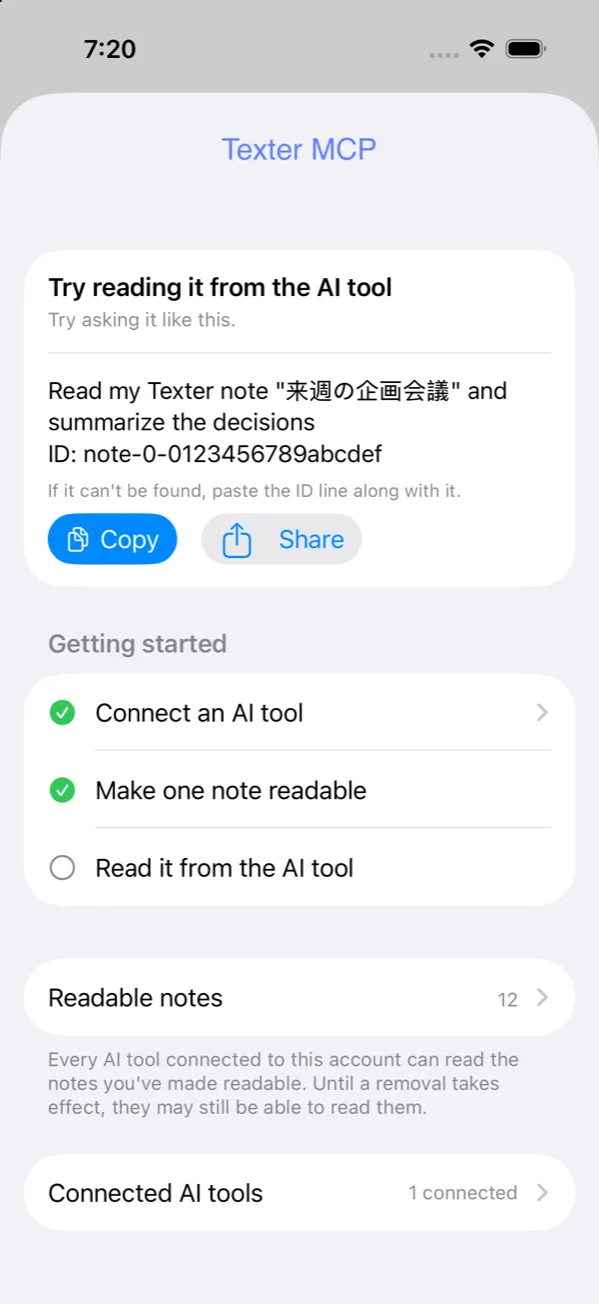
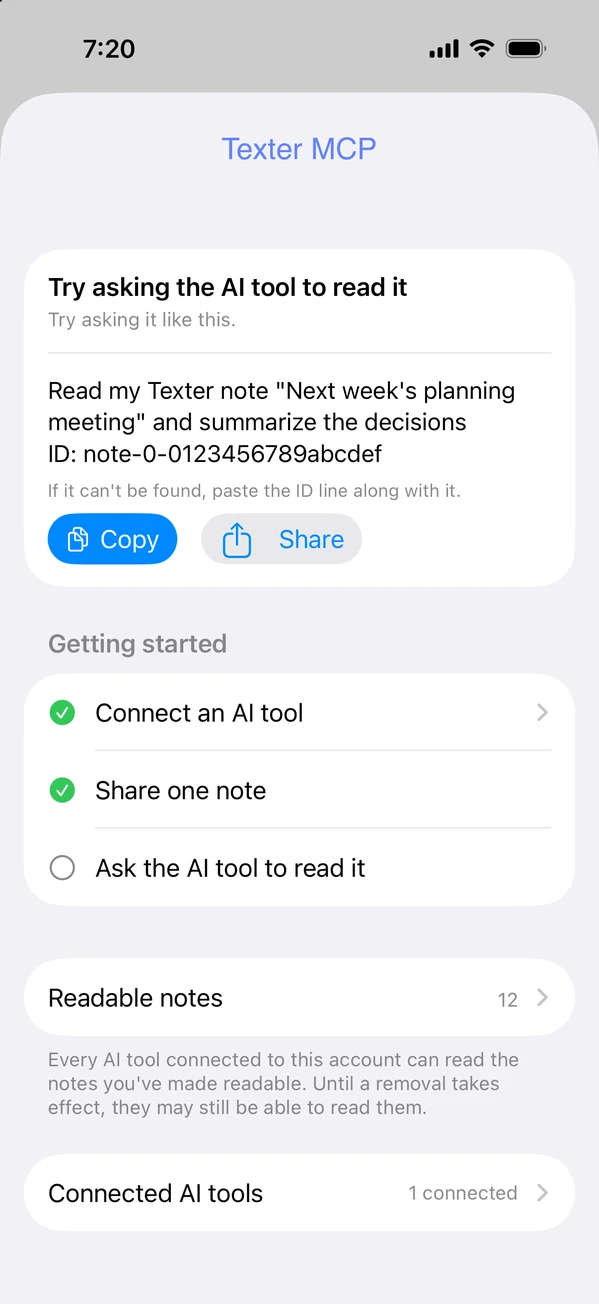
docs(guides): 英語版の画像と画面の文言をアプリの今の文言に合わせる
- 英語版の画像3点を差し替える
- 英語版が引用するアプリの画面の文言を、今の文言に直す
- ChatGPT の英語のボタン名と、確かめた内容を脚注に反映する

diff --git a/scripts/guides/data.js b/scripts/guides/data.js
@@ -1594,7 +1594,7 @@ codex mcp login texter</pre>
 <article><h3>長く使った接続は、そのまま使えますか。</h3><p>AIツールから、接続し直しを求められることがあります。そのときは、同じ手順で接続し直してください。</p></article>
 <article><h3>iPhoneがオフラインのときは読めますか。</h3><p>iPhoneがオフラインの間は、最後に同期した内容が読まれます。</p></article>
 <article><h3>パソコンのツールは端末ごとに表示されますか。</h3><p>パソコンのツールは、端末ごとではなく1件にまとまって表示されます。</p></article>
-<p class="note">検証日 2026-11-26。ChatGPTのカスタムMCPサーバーの手順とMuseの手順は、2026年11月12日に実際の画面で操作したものです。ChatGPTのプラグインの一覧からの追加は、公開されたページの表記を確かめたもので、インストールから接続までは通して確かめていません。画面や手順は、各ツールの更新で変わることがあります。Claude、ChatGPT、Codex、Museは各社の商標です。</p>` },
+<p class="note">検証日 2026-11-26。ChatGPTのプラグインの一覧からの追加は、2026年11月26日に、英語の画面でインストールし、Texterの許可の画面でサインインして許可しました。そのうえで、ChatGPTからノートの一覧・検索・読み取りが動くことを確かめています。日本語の画面のボタン名は、公開されたページの表記によります。ChatGPTのカスタムMCPサーバーの手順とMuseの手順は、2026年11月12日に実際の画面で操作しました。画面や手順は、各ツールの更新で変わることがあります。Claude、ChatGPT、Codex、Museは各社の商標です。</p>` },
   ],
   ctaTitle: 'Texterで試す',
   ctaLabel: 'Texterを入手する',
@@ -1640,7 +1640,7 @@ codex mcp login texter</pre>
 <li>In Texter, sign in with Apple or Google and sync your notes</li>
 </ul>
 <p>In Texter, open "Settings &gt; Account &gt; Texter MCP". The three steps are listed under "Getting started", and this page follows the same order.</p>
-<figure class="shot"><a href="/assets/guides/ai-tools-mcp/03_ready_en.webp"><img src="/assets/guides/ai-tools-mcp/03_ready_en.webp" alt="The Texter MCP screen. It shows an example prompt under &quot;Try reading it from the AI tool&quot;, with the note ID line and Copy and Share buttons" width="599" height="1304" loading="lazy" decoding="async"></a><figcaption>The Texter MCP screen (after steps 1 and 2)</figcaption></figure>
+<figure class="shot"><a href="/assets/guides/ai-tools-mcp/03_ready_en.webp"><img src="/assets/guides/ai-tools-mcp/03_ready_en.webp" alt="The Texter MCP screen. It shows an example prompt under &quot;Try asking the AI tool to read it&quot;, with the note ID line and Copy and Share buttons" width="599" height="1304" loading="lazy" decoding="async"></a><figcaption>The Texter MCP screen (after steps 1 and 2)</figcaption></figure>
 <p>If you don't see "Texter MCP" in the app, update the app, wait a while, and open it again.</p>` },
     { id: 'step1', title: 'Step 1: Connect your AI tool', html: `
 <p>For every tool, the connection URL is the same.</p>
@@ -1663,10 +1663,10 @@ codex mcp login texter</pre>
 codex mcp login texter</pre>
 <p>The Texter allow screen opens in your browser; sign in and allow access.</p>
 <h3 id="tool-chatgpt">ChatGPT</h3>
-<p>Texter is listed in ChatGPT's plugin directory, so you can add it without typing the URL. The labels below are from the Japanese interface and may read differently in yours.</p>
-<ol><li>In ChatGPT's plugin directory, find "Texter" and open it</li><li>Choose the install button at the top right (shown as "プラグインをインストール" in the Japanese interface)</li><li>When the Texter screen opens, sign in and allow access</li></ol>
+<p>Texter is listed in ChatGPT's plugin directory, so you can add it without typing the URL.</p>
+<ol><li>In ChatGPT's plugin directory, find "Texter" and open it</li><li>Choose "Install plugin" at the top right (shown as "プラグインをインストール" in the Japanese interface)</li><li>When the Texter screen opens, sign in and allow access</li></ol>
 <p>You can also open <a href="https://chatgpt.com/plugins/plugin_asdk_app_6af6ad7b741c81919c457dd81e6c3ea0" rel="noopener">the Texter page on ChatGPT</a> directly.</p>
-<p>If you can't add it from the directory, add it as a custom MCP server instead, using the server URL at the top of Step 1 (https://mcp.texter.work/mcp).</p>
+<p>If you can't add it from the directory, add it as a custom MCP server instead, using the server URL at the top of Step 1 (https://mcp.texter.work/mcp). The labels in these steps are from the Japanese interface and may read differently in yours.</p>
 <ol><li>Open the plugins screen. From "Add" at the top right, choose to add a custom MCP server</li><li>Enter a name such as "Texter"</li><li>Set the connection type to server URL and enter the URL above</li><li>Choose OAuth for authentication</li><li>Read the risk notice, check the box confirming you understand, and create it</li><li>When the Texter screen opens, sign in and allow access</li></ol>
 <p>Depending on your plan or your administrator's settings, the plugin directory or this option may not appear. If it doesn't, check ChatGPT's help.</p>
 
@@ -1682,8 +1682,8 @@ codex mcp login texter</pre>
     { id: 'step2', title: 'Step 2: Choose the notes to make readable', html: `
 <p>Connecting alone does not let the tool read anything. An AI tool can read only the notes you have made readable in Texter. Start with one.</p>
 <ol class="steps"><li><h3>Make a note readable</h3>
-<p>Open a note in Texter and choose "Make Readable with Texter MCP" from its menu. You can also choose notes from "Settings &gt; Account &gt; Texter MCP".</p>
-<p>A confirmation screen explains the following. After reading it, tap "Agree and Make Readable".</p>
+<p>Open a note in Texter and choose "Share with Texter MCP" from its menu. You can also choose notes from "Settings &gt; Account &gt; Texter MCP".</p>
+<p>A confirmation screen explains the following. After reading it, tap "Agree and Share".</p>
 <ul><li>The text of this note is sent to the cloud</li><li>Recordings and other original files are not sent</li><li>Content already given to tools can't be taken back</li></ul>
 <p>How to select several notes at once is covered in the next section, "You choose what can be read".</p>
 <p>When the status reads "Readable by connected tools", you're ready. If it says "Preparing", wait a moment.</p>
@@ -1697,7 +1697,7 @@ codex mcp login texter</pre>
 <li>Read my Texter note "note title" and summarize the decisions</li>
 </ul>
 <p>Search looks for notes that contain the words you use, so short words work best. Even if you ask in a full sentence, most AI tools break it into words. A word that is not in your notes returns no results. When we searched for "meeting" while no readable note contained that word, we got none. A different wording can find the note, so try other words.</p>
-<p>If it can't find the note, also paste the ID line from the example prompt under "Try reading it from the AI tool" on the Texter MCP screen. The example is at the top of the image in <a href="#before">Before you start</a>.</p>` },
+<p>If it can't find the note, also paste the ID line from the example prompt under "Try asking the AI tool to read it" on the Texter MCP screen. The example is at the top of the image in <a href="#before">Before you start</a>.</p>` },
     { id: 'control', title: 'You choose what can be read', html: `
 <ul>
 <li>You can make notes readable one at a time</li>
@@ -1722,7 +1722,7 @@ codex mcp login texter</pre>
 <li>Under "Connected AI tools", tap "Disconnect" next to the tool</li>
 <li>Confirm. Disconnecting cuts the connection on every device</li>
 </ol>
-<p>If the connection also remains on the AI tool's side, remove it in that tool's settings. To stop a single note from being read, choose "Make Unreadable with Texter MCP" from the note's menu.</p>
+<p>If the connection also remains on the AI tool's side, remove it in that tool's settings. To stop a single note from being read, choose "Stop Sharing with Texter MCP" from the note's menu.</p>
 <p>A disconnected tool can no longer read your notes from that moment. If you make individual notes unreadable instead, they may still be readable until the change takes effect.</p>
 <figure class="shot"><a href="/assets/guides/ai-tools-mcp/11_grants_list_en.webp"><img src="/assets/guides/ai-tools-mcp/11_grants_list_en.webp" alt="The Connected AI tools screen listing the tools you connected" width="599" height="1304" loading="lazy" decoding="async"></a><figcaption>The "Connected AI tools" list</figcaption></figure>` },
     { id: 'trouble', title: 'Troubleshooting', html: `
@@ -1740,7 +1740,7 @@ codex mcp login texter</pre>
 <article><h3>Can I keep using a connection I have used for a long time?</h3><p>Your AI tool may ask you to reconnect. If it does, connect again with the same steps.</p></article>
 <article><h3>What if my iPhone is offline?</h3><p>While your iPhone is offline, the last synced content is read.</p></article>
 <article><h3>Are tools on my computer listed per device?</h3><p>No. Tools on your computer appear as one entry, not one per device.</p></article>
-<p class="note">Last verified 2026-11-26. The steps for adding a custom MCP server in ChatGPT and the Muse steps are from a session we ran on the real screens on November 12, 2026. For adding Texter from ChatGPT's plugin directory, we checked the labels on the published page, but we have not gone through the whole flow from install to connection. Screens and steps can change as each tool updates. Claude, ChatGPT, Codex, and Muse are trademarks of their respective owners.</p>` },
+<p class="note">Last verified 2026-11-26. For adding Texter from ChatGPT's plugin directory, on November 26, 2026 we installed it in the English interface, signed in and allowed access on the Texter screen, and confirmed that ChatGPT could list, search, and read notes. The Japanese button name is from the published page. The steps for adding a custom MCP server in ChatGPT and the Muse steps are from a session we ran on the real screens on November 12, 2026. Screens and steps can change as each tool updates. Claude, ChatGPT, Codex, and Muse are trademarks of their respective owners.</p>` },
     ],
     ctaTitle: 'Try it in Texter',
     ctaLabel: 'Get Texter',

diff --git a/dist/en/guides/ai-tools-mcp/index.html b/dist/en/guides/ai-tools-mcp/index.html
@@ -216,7 +216,7 @@ footer p{margin:12px 0 0}
 <li>In Texter, sign in with Apple or Google and sync your notes</li>
 </ul>
 <p>In Texter, open "Settings &gt; Account &gt; Texter MCP". The three steps are listed under "Getting started", and this page follows the same order.</p>
-<figure class="shot"><a href="/assets/guides/ai-tools-mcp/03_ready_en.webp"><img src="/assets/guides/ai-tools-mcp/03_ready_en.webp" alt="The Texter MCP screen. It shows an example prompt under &quot;Try reading it from the AI tool&quot;, with the note ID line and Copy and Share buttons" width="599" height="1304" loading="lazy" decoding="async"></a><figcaption>The Texter MCP screen (after steps 1 and 2)</figcaption></figure>
+<figure class="shot"><a href="/assets/guides/ai-tools-mcp/03_ready_en.webp"><img src="/assets/guides/ai-tools-mcp/03_ready_en.webp" alt="The Texter MCP screen. It shows an example prompt under &quot;Try asking the AI tool to read it&quot;, with the note ID line and Copy and Share buttons" width="599" height="1304" loading="lazy" decoding="async"></a><figcaption>The Texter MCP screen (after steps 1 and 2)</figcaption></figure>
 <p>If you don't see "Texter MCP" in the app, update the app, wait a while, and open it again.</p></section>
 <section class="sec" id="step1" aria-labelledby="step1-h"><h2 id="step1-h">Step 1: Connect your AI tool</h2>
 <p>For every tool, the connection URL is the same.</p>
@@ -239,10 +239,10 @@ footer p{margin:12px 0 0}
 codex mcp login texter</pre>
 <p>The Texter allow screen opens in your browser; sign in and allow access.</p>
 <h3 id="tool-chatgpt">ChatGPT</h3>
-<p>Texter is listed in ChatGPT's plugin directory, so you can add it without typing the URL. The labels below are from the Japanese interface and may read differently in yours.</p>
-<ol><li>In ChatGPT's plugin directory, find "Texter" and open it</li><li>Choose the install button at the top right (shown as "プラグインをインストール" in the Japanese interface)</li><li>When the Texter screen opens, sign in and allow access</li></ol>
+<p>Texter is listed in ChatGPT's plugin directory, so you can add it without typing the URL.</p>
+<ol><li>In ChatGPT's plugin directory, find "Texter" and open it</li><li>Choose "Install plugin" at the top right (shown as "プラグインをインストール" in the Japanese interface)</li><li>When the Texter screen opens, sign in and allow access</li></ol>
 <p>You can also open <a href="https://chatgpt.com/plugins/plugin_asdk_app_6af6ad7b741c81919c457dd81e6c3ea0" rel="noopener">the Texter page on ChatGPT</a> directly.</p>
-<p>If you can't add it from the directory, add it as a custom MCP server instead, using the server URL at the top of Step 1 (https://mcp.texter.work/mcp).</p>
+<p>If you can't add it from the directory, add it as a custom MCP server instead, using the server URL at the top of Step 1 (https://mcp.texter.work/mcp). The labels in these steps are from the Japanese interface and may read differently in yours.</p>
 <ol><li>Open the plugins screen. From "Add" at the top right, choose to add a custom MCP server</li><li>Enter a name such as "Texter"</li><li>Set the connection type to server URL and enter the URL above</li><li>Choose OAuth for authentication</li><li>Read the risk notice, check the box confirming you understand, and create it</li><li>When the Texter screen opens, sign in and allow access</li></ol>
 <p>Depending on your plan or your administrator's settings, the plugin directory or this option may not appear. If it doesn't, check ChatGPT's help.</p>
 
@@ -258,8 +258,8 @@ codex mcp login texter</pre>
 <section class="sec" id="step2" aria-labelledby="step2-h"><h2 id="step2-h">Step 2: Choose the notes to make readable</h2>
 <p>Connecting alone does not let the tool read anything. An AI tool can read only the notes you have made readable in Texter. Start with one.</p>
 <ol class="steps"><li><h3>Make a note readable</h3>
-<p>Open a note in Texter and choose "Make Readable with Texter MCP" from its menu. You can also choose notes from "Settings &gt; Account &gt; Texter MCP".</p>
-<p>A confirmation screen explains the following. After reading it, tap "Agree and Make Readable".</p>
+<p>Open a note in Texter and choose "Share with Texter MCP" from its menu. You can also choose notes from "Settings &gt; Account &gt; Texter MCP".</p>
+<p>A confirmation screen explains the following. After reading it, tap "Agree and Share".</p>
 <ul><li>The text of this note is sent to the cloud</li><li>Recordings and other original files are not sent</li><li>Content already given to tools can't be taken back</li></ul>
 <p>How to select several notes at once is covered in the next section, "You choose what can be read".</p>
 <p>When the status reads "Readable by connected tools", you're ready. If it says "Preparing", wait a moment.</p>
@@ -273,7 +273,7 @@ codex mcp login texter</pre>
 <li>Read my Texter note "note title" and summarize the decisions</li>
 </ul>
 <p>Search looks for notes that contain the words you use, so short words work best. Even if you ask in a full sentence, most AI tools break it into words. A word that is not in your notes returns no results. When we searched for "meeting" while no readable note contained that word, we got none. A different wording can find the note, so try other words.</p>
-<p>If it can't find the note, also paste the ID line from the example prompt under "Try reading it from the AI tool" on the Texter MCP screen. The example is at the top of the image in <a href="#before">Before you start</a>.</p></section>
+<p>If it can't find the note, also paste the ID line from the example prompt under "Try asking the AI tool to read it" on the Texter MCP screen. The example is at the top of the image in <a href="#before">Before you start</a>.</p></section>
 <section class="sec" id="control" aria-labelledby="control-h"><h2 id="control-h">You choose what can be read</h2>
 <ul>
 <li>You can make notes readable one at a time</li>
@@ -298,7 +298,7 @@ codex mcp login texter</pre>
 <li>Under "Connected AI tools", tap "Disconnect" next to the tool</li>
 <li>Confirm. Disconnecting cuts the connection on every device</li>
 </ol>
-<p>If the connection also remains on the AI tool's side, remove it in that tool's settings. To stop a single note from being read, choose "Make Unreadable with Texter MCP" from the note's menu.</p>
+<p>If the connection also remains on the AI tool's side, remove it in that tool's settings. To stop a single note from being read, choose "Stop Sharing with Texter MCP" from the note's menu.</p>
 <p>A disconnected tool can no longer read your notes from that moment. If you make individual notes unreadable instead, they may still be readable until the change takes effect.</p>
 <figure class="shot"><a href="/assets/guides/ai-tools-mcp/11_grants_list_en.webp"><img src="/assets/guides/ai-tools-mcp/11_grants_list_en.webp" alt="The Connected AI tools screen listing the tools you connected" width="599" height="1304" loading="lazy" decoding="async"></a><figcaption>The "Connected AI tools" list</figcaption></figure></section>
 <section class="sec" id="trouble" aria-labelledby="trouble-h"><h2 id="trouble-h">Troubleshooting</h2>
@@ -316,7 +316,7 @@ codex mcp login texter</pre>
 <article><h3>Can I keep using a connection I have used for a long time?</h3><p>Your AI tool may ask you to reconnect. If it does, connect again with the same steps.</p></article>
 <article><h3>What if my iPhone is offline?</h3><p>While your iPhone is offline, the last synced content is read.</p></article>
 <article><h3>Are tools on my computer listed per device?</h3><p>No. Tools on your computer appear as one entry, not one per device.</p></article>
-<p class="note">Last verified 2026-11-26. The steps for adding a custom MCP server in ChatGPT and the Muse steps are from a session we ran on the real screens on November 12, 2026. For adding Texter from ChatGPT's plugin directory, we checked the labels on the published page, but we have not gone through the whole flow from install to connection. Screens and steps can change as each tool updates. Claude, ChatGPT, Codex, and Muse are trademarks of their respective owners.</p></section>
+<p class="note">Last verified 2026-11-26. For adding Texter from ChatGPT's plugin directory, on November 26, 2026 we installed it in the English interface, signed in and allowed access on the Texter screen, and confirmed that ChatGPT could list, search, and read notes. The Japanese button name is from the published page. The steps for adding a custom MCP server in ChatGPT and the Muse steps are from a session we ran on the real screens on November 12, 2026. Screens and steps can change as each tool updates. Claude, ChatGPT, Codex, and Muse are trademarks of their respective owners.</p></section>
 <section class="cta" aria-labelledby="cta-h"><h2 id="cta-h">Try it in Texter</h2><p>Texter is an iPhone app that transcribes and summarizes your recordings. Texter MCP is a Premium feature. It is not available with a plan received through Family Sharing, and it may also be unavailable with some other Premium subscriptions at this time. See <a href="#before">Before you start</a> for the conditions.</p><div class="row"><a class="btn btn-solid" href="https://apps.apple.com/app/id1482592304?pt=489812&amp;ct=guide-ai-tools-mcp-end&amp;mt=8" target="_blank" rel="noopener noreferrer" data-cta="guide-ai-tools-mcp-end" data-store="app_store">Get Texter (App Store)</a></div></section>
 </main>
 <footer><div class="wrap">

diff --git a/en/guides/ai-tools-mcp/index.html b/en/guides/ai-tools-mcp/index.html
@@ -216,7 +216,7 @@ footer p{margin:12px 0 0}
 <li>In Texter, sign in with Apple or Google and sync your notes</li>
 </ul>
 <p>In Texter, open "Settings &gt; Account &gt; Texter MCP". The three steps are listed under "Getting started", and this page follows the same order.</p>
-<figure class="shot"><a href="/assets/guides/ai-tools-mcp/03_ready_en.webp"><img src="/assets/guides/ai-tools-mcp/03_ready_en.webp" alt="The Texter MCP screen. It shows an example prompt under &quot;Try reading it from the AI tool&quot;, with the note ID line and Copy and Share buttons" width="599" height="1304" loading="lazy" decoding="async"></a><figcaption>The Texter MCP screen (after steps 1 and 2)</figcaption></figure>
+<figure class="shot"><a href="/assets/guides/ai-tools-mcp/03_ready_en.webp"><img src="/assets/guides/ai-tools-mcp/03_ready_en.webp" alt="The Texter MCP screen. It shows an example prompt under &quot;Try asking the AI tool to read it&quot;, with the note ID line and Copy and Share buttons" width="599" height="1304" loading="lazy" decoding="async"></a><figcaption>The Texter MCP screen (after steps 1 and 2)</figcaption></figure>
 <p>If you don't see "Texter MCP" in the app, update the app, wait a while, and open it again.</p></section>
 <section class="sec" id="step1" aria-labelledby="step1-h"><h2 id="step1-h">Step 1: Connect your AI tool</h2>
 <p>For every tool, the connection URL is the same.</p>
@@ -239,10 +239,10 @@ footer p{margin:12px 0 0}
 codex mcp login texter</pre>
 <p>The Texter allow screen opens in your browser; sign in and allow access.</p>
 <h3 id="tool-chatgpt">ChatGPT</h3>
-<p>Texter is listed in ChatGPT's plugin directory, so you can add it without typing the URL. The labels below are from the Japanese interface and may read differently in yours.</p>
-<ol><li>In ChatGPT's plugin directory, find "Texter" and open it</li><li>Choose the install button at the top right (shown as "プラグインをインストール" in the Japanese interface)</li><li>When the Texter screen opens, sign in and allow access</li></ol>
+<p>Texter is listed in ChatGPT's plugin directory, so you can add it without typing the URL.</p>
+<ol><li>In ChatGPT's plugin directory, find "Texter" and open it</li><li>Choose "Install plugin" at the top right (shown as "プラグインをインストール" in the Japanese interface)</li><li>When the Texter screen opens, sign in and allow access</li></ol>
 <p>You can also open <a href="https://chatgpt.com/plugins/plugin_asdk_app_6af6ad7b741c81919c457dd81e6c3ea0" rel="noopener">the Texter page on ChatGPT</a> directly.</p>
-<p>If you can't add it from the directory, add it as a custom MCP server instead, using the server URL at the top of Step 1 (https://mcp.texter.work/mcp).</p>
+<p>If you can't add it from the directory, add it as a custom MCP server instead, using the server URL at the top of Step 1 (https://mcp.texter.work/mcp). The labels in these steps are from the Japanese interface and may read differently in yours.</p>
 <ol><li>Open the plugins screen. From "Add" at the top right, choose to add a custom MCP server</li><li>Enter a name such as "Texter"</li><li>Set the connection type to server URL and enter the URL above</li><li>Choose OAuth for authentication</li><li>Read the risk notice, check the box confirming you understand, and create it</li><li>When the Texter screen opens, sign in and allow access</li></ol>
 <p>Depending on your plan or your administrator's settings, the plugin directory or this option may not appear. If it doesn't, check ChatGPT's help.</p>
 
@@ -258,8 +258,8 @@ codex mcp login texter</pre>
 <section class="sec" id="step2" aria-labelledby="step2-h"><h2 id="step2-h">Step 2: Choose the notes to make readable</h2>
 <p>Connecting alone does not let the tool read anything. An AI tool can read only the notes you have made readable in Texter. Start with one.</p>
 <ol class="steps"><li><h3>Make a note readable</h3>
-<p>Open a note in Texter and choose "Make Readable with Texter MCP" from its menu. You can also choose notes from "Settings &gt; Account &gt; Texter MCP".</p>
-<p>A confirmation screen explains the following. After reading it, tap "Agree and Make Readable".</p>
+<p>Open a note in Texter and choose "Share with Texter MCP" from its menu. You can also choose notes from "Settings &gt; Account &gt; Texter MCP".</p>
+<p>A confirmation screen explains the following. After reading it, tap "Agree and Share".</p>
 <ul><li>The text of this note is sent to the cloud</li><li>Recordings and other original files are not sent</li><li>Content already given to tools can't be taken back</li></ul>
 <p>How to select several notes at once is covered in the next section, "You choose what can be read".</p>
 <p>When the status reads "Readable by connected tools", you're ready. If it says "Preparing", wait a moment.</p>
@@ -273,7 +273,7 @@ codex mcp login texter</pre>
 <li>Read my Texter note "note title" and summarize the decisions</li>
 </ul>
 <p>Search looks for notes that contain the words you use, so short words work best. Even if you ask in a full sentence, most AI tools break it into words. A word that is not in your notes returns no results. When we searched for "meeting" while no readable note contained that word, we got none. A different wording can find the note, so try other words.</p>
-<p>If it can't find the note, also paste the ID line from the example prompt under "Try reading it from the AI tool" on the Texter MCP screen. The example is at the top of the image in <a href="#before">Before you start</a>.</p></section>
+<p>If it can't find the note, also paste the ID line from the example prompt under "Try asking the AI tool to read it" on the Texter MCP screen. The example is at the top of the image in <a href="#before">Before you start</a>.</p></section>
 <section class="sec" id="control" aria-labelledby="control-h"><h2 id="control-h">You choose what can be read</h2>
 <ul>
 <li>You can make notes readable one at a time</li>
@@ -298,7 +298,7 @@ codex mcp login texter</pre>
 <li>Under "Connected AI tools", tap "Disconnect" next to the tool</li>
 <li>Confirm. Disconnecting cuts the connection on every device</li>
 </ol>
-<p>If the connection also remains on the AI tool's side, remove it in that tool's settings. To stop a single note from being read, choose "Make Unreadable with Texter MCP" from the note's menu.</p>
+<p>If the connection also remains on the AI tool's side, remove it in that tool's settings. To stop a single note from being read, choose "Stop Sharing with Texter MCP" from the note's menu.</p>
 <p>A disconnected tool can no longer read your notes from that moment. If you make individual notes unreadable instead, they may still be readable until the change takes effect.</p>
 <figure class="shot"><a href="/assets/guides/ai-tools-mcp/11_grants_list_en.webp"><img src="/assets/guides/ai-tools-mcp/11_grants_list_en.webp" alt="The Connected AI tools screen listing the tools you connected" width="599" height="1304" loading="lazy" decoding="async"></a><figcaption>The "Connected AI tools" list</figcaption></figure></section>
 <section class="sec" id="trouble" aria-labelledby="trouble-h"><h2 id="trouble-h">Troubleshooting</h2>
@@ -316,7 +316,7 @@ codex mcp login texter</pre>
 <article><h3>Can I keep using a connection I have used for a long time?</h3><p>Your AI tool may ask you to reconnect. If it does, connect again with the same steps.</p></article>
 <article><h3>What if my iPhone is offline?</h3><p>While your iPhone is offline, the last synced content is read.</p></article>
 <article><h3>Are tools on my computer listed per device?</h3><p>No. Tools on your computer appear as one entry, not one per device.</p></article>
-<p class="note">Last verified 2026-11-26. The steps for adding a custom MCP server in ChatGPT and the Muse steps are from a session we ran on the real screens on November 12, 2026. For adding Texter from ChatGPT's plugin directory, we checked the labels on the published page, but we have not gone through the whole flow from install to connection. Screens and steps can change as each tool updates. Claude, ChatGPT, Codex, and Muse are trademarks of their respective owners.</p></section>
+<p class="note">Last verified 2026-11-26. For adding Texter from ChatGPT's plugin directory, on November 26, 2026 we installed it in the English interface, signed in and allowed access on the Texter screen, and confirmed that ChatGPT could list, search, and read notes. The Japanese button name is from the published page. The steps for adding a custom MCP server in ChatGPT and the Muse steps are from a session we ran on the real screens on November 12, 2026. Screens and steps can change as each tool updates. Claude, ChatGPT, Codex, and Muse are trademarks of their respective owners.</p></section>
 <section class="cta" aria-labelledby="cta-h"><h2 id="cta-h">Try it in Texter</h2><p>Texter is an iPhone app that transcribes and summarizes your recordings. Texter MCP is a Premium feature. It is not available with a plan received through Family Sharing, and it may also be unavailable with some other Premium subscriptions at this time. See <a href="#before">Before you start</a> for the conditions.</p><div class="row"><a class="btn btn-solid" href="https://apps.apple.com/app/id1482592304?pt=489812&amp;ct=guide-ai-tools-mcp-end&amp;mt=8" target="_blank" rel="noopener noreferrer" data-cta="guide-ai-tools-mcp-end" data-store="app_store">Get Texter (App Store)</a></div></section>
 </main>
 <footer><div class="wrap">

diff --git a/dist/guides/ai-tools-mcp/index.html b/dist/guides/ai-tools-mcp/index.html
@@ -326,7 +326,7 @@ codex mcp login texter</pre>
 <article><h3>長く使った接続は、そのまま使えますか。</h3><p>AIツールから、接続し直しを求められることがあります。そのときは、同じ手順で接続し直してください。</p></article>
 <article><h3>iPhoneがオフラインのときは読めますか。</h3><p>iPhoneがオフラインの間は、最後に同期した内容が読まれます。</p></article>
 <article><h3>パソコンのツールは端末ごとに表示されますか。</h3><p>パソコンのツールは、端末ごとではなく1件にまとまって表示されます。</p></article>
-<p class="note">検証日 2026-11-26。ChatGPTのカスタムMCPサーバーの手順とMuseの手順は、2026年11月12日に実際の画面で操作したものです。ChatGPTのプラグインの一覧からの追加は、公開されたページの表記を確かめたもので、インストールから接続までは通して確かめていません。画面や手順は、各ツールの更新で変わることがあります。Claude、ChatGPT、Codex、Museは各社の商標です。</p></section>
+<p class="note">検証日 2026-11-26。ChatGPTのプラグインの一覧からの追加は、2026年11月26日に、英語の画面でインストールし、Texterの許可の画面でサインインして許可しました。そのうえで、ChatGPTからノートの一覧・検索・読み取りが動くことを確かめています。日本語の画面のボタン名は、公開されたページの表記によります。ChatGPTのカスタムMCPサーバーの手順とMuseの手順は、2026年11月12日に実際の画面で操作しました。画面や手順は、各ツールの更新で変わることがあります。Claude、ChatGPT、Codex、Museは各社の商標です。</p></section>
 <section class="cta" aria-labelledby="cta-h"><h2 id="cta-h">Texterで試す</h2><p>Texterは、録音の文字起こしや要約ができるiPhoneのアプリです。Texter MCPは、Premiumで使える機能です。ファミリー共有で受け取ったプランでは使えません。このほか、一部のPremiumでも、現在使えない場合があります。条件は<a href="/pricing/#sync-conditions">料金と利用条件</a>で確認できます。</p><div class="row"><a class="btn btn-solid" href="https://apps.apple.com/jp/app/id1482592304?pt=489812&amp;ct=guide-ai-tools-mcp-end&amp;mt=8" target="_blank" rel="noopener noreferrer" data-cta="guide-ai-tools-mcp-end" data-store="app_store">Texterを入手する（App Store）</a></div></section>
 </main>
 <footer><div class="wrap">

diff --git a/guides/ai-tools-mcp/index.html b/guides/ai-tools-mcp/index.html
@@ -326,7 +326,7 @@ codex mcp login texter</pre>
 <article><h3>長く使った接続は、そのまま使えますか。</h3><p>AIツールから、接続し直しを求められることがあります。そのときは、同じ手順で接続し直してください。</p></article>
 <article><h3>iPhoneがオフラインのときは読めますか。</h3><p>iPhoneがオフラインの間は、最後に同期した内容が読まれます。</p></article>
 <article><h3>パソコンのツールは端末ごとに表示されますか。</h3><p>パソコンのツールは、端末ごとではなく1件にまとまって表示されます。</p></article>
-<p class="note">検証日 2026-11-26。ChatGPTのカスタムMCPサーバーの手順とMuseの手順は、2026年11月12日に実際の画面で操作したものです。ChatGPTのプラグインの一覧からの追加は、公開されたページの表記を確かめたもので、インストールから接続までは通して確かめていません。画面や手順は、各ツールの更新で変わることがあります。Claude、ChatGPT、Codex、Museは各社の商標です。</p></section>
+<p class="note">検証日 2026-11-26。ChatGPTのプラグインの一覧からの追加は、2026年11月26日に、英語の画面でインストールし、Texterの許可の画面でサインインして許可しました。そのうえで、ChatGPTからノートの一覧・検索・読み取りが動くことを確かめています。日本語の画面のボタン名は、公開されたページの表記によります。ChatGPTのカスタムMCPサーバーの手順とMuseの手順は、2026年11月12日に実際の画面で操作しました。画面や手順は、各ツールの更新で変わることがあります。Claude、ChatGPT、Codex、Museは各社の商標です。</p></section>
 <section class="cta" aria-labelledby="cta-h"><h2 id="cta-h">Texterで試す</h2><p>Texterは、録音の文字起こしや要約ができるiPhoneのアプリです。Texter MCPは、Premiumで使える機能です。ファミリー共有で受け取ったプランでは使えません。このほか、一部のPremiumでも、現在使えない場合があります。条件は<a href="/pricing/#sync-conditions">料金と利用条件</a>で確認できます。</p><div class="row"><a class="btn btn-solid" href="https://apps.apple.com/jp/app/id1482592304?pt=489812&amp;ct=guide-ai-tools-mcp-end&amp;mt=8" target="_blank" rel="noopener noreferrer" data-cta="guide-ai-tools-mcp-end" data-store="app_store">Texterを入手する（App Store）</a></div></section>
 </main>
 <footer><div class="wrap">
